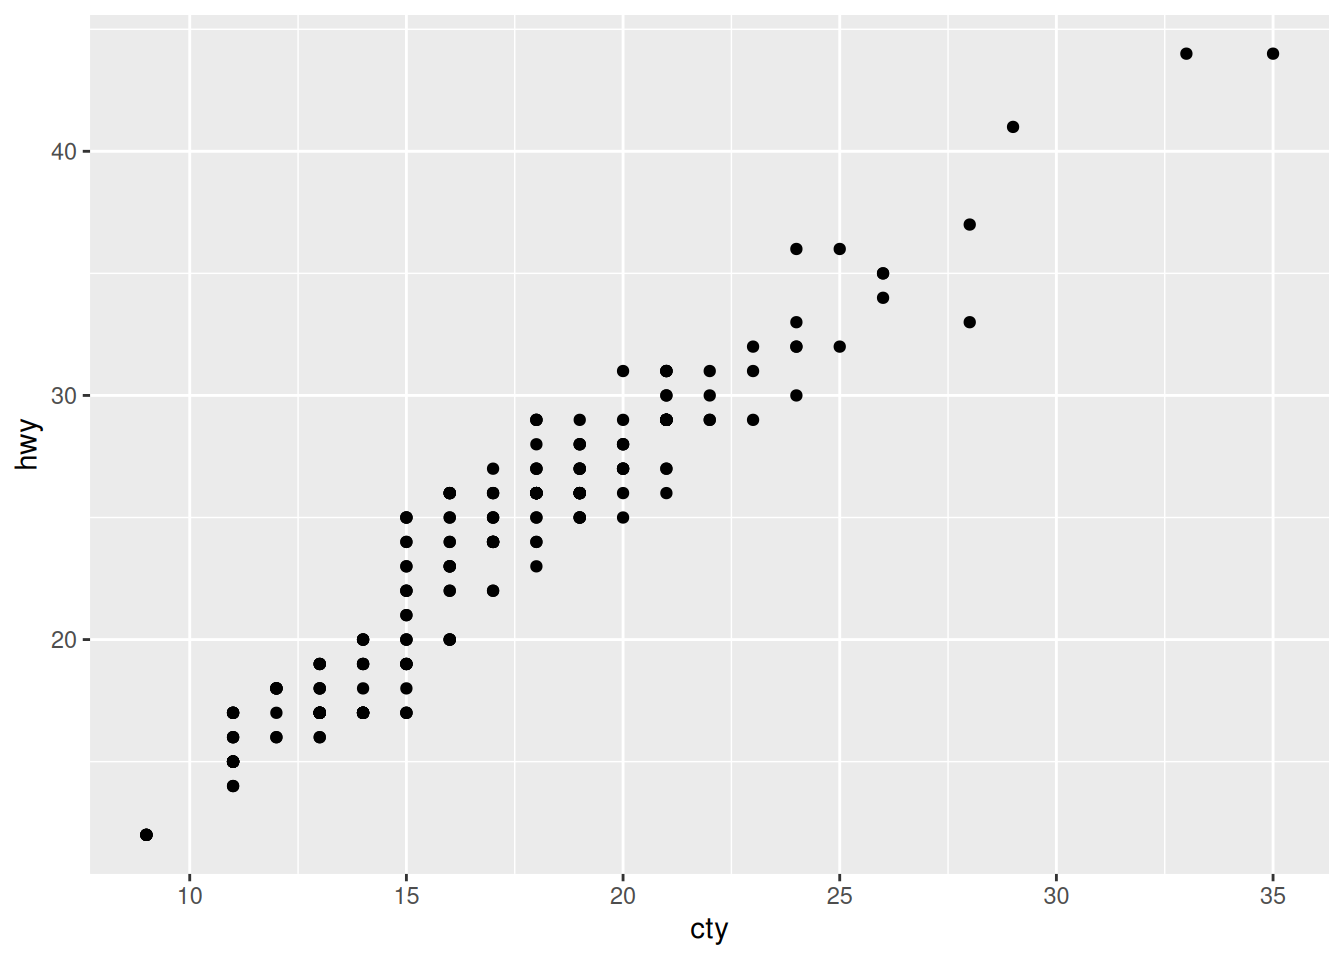
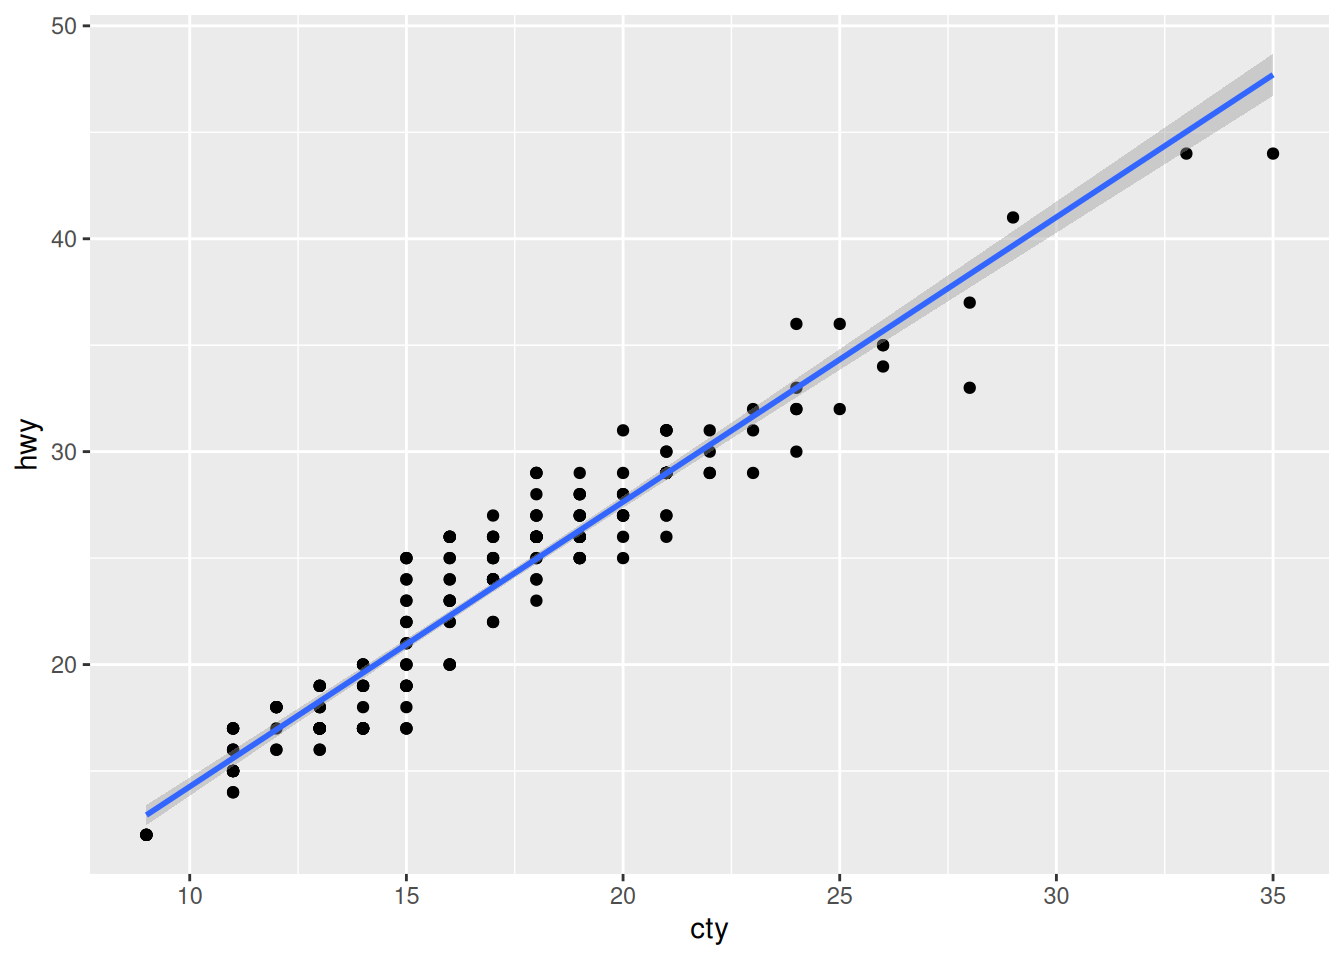
Charts for presentation

diff --git a/docs/ResearchProject.html b/docs/ResearchProject.html
@@ -7,9 +7,9 @@
 <meta name="viewport" content="width=device-width, initial-scale=1.0, user-scalable=yes">
 
 <meta name="author" content="Diego Arias">
-<meta name="dcterms.date" content="2026-08-19">
+<meta name="dcterms.date" content="2026-08-20">
 
-<title>Some ggplot – quartoCourseBlog</title>
+<title>Does remote work positivley impact workers in Europe? – quartoCourseBlog</title>
 <style>
 code{white-space: pre-wrap;}
 span.smallcaps{font-variant: small-caps;}
@@ -60,24 +60,24 @@ pre > code.sourceCode > span > a:first-child::before { text-decoration: underlin
 </style>
 
 
-<script src="../../site_libs/quarto-nav/quarto-nav.js"></script>
-<script src="../../site_libs/quarto-nav/headroom.min.js"></script>
-<script src="../../site_libs/clipboard/clipboard.min.js"></script>
-<script src="../../site_libs/quarto-search/autocomplete.umd.js"></script>
-<script src="../../site_libs/quarto-search/fuse.min.js"></script>
-<script src="../../site_libs/quarto-search/quarto-search.js"></script>
-<meta name="quarto:offset" content="../../">
-<script src="../../site_libs/quarto-html/quarto.js" type="module"></script>
-<script src="../../site_libs/quarto-html/tabsets/tabsets.js" type="module"></script>
-<script src="../../site_libs/quarto-html/axe/axe-check.js" type="module"></script>
-<script src="../../site_libs/quarto-html/popper.min.js"></script>
-<script src="../../site_libs/quarto-html/tippy.umd.min.js"></script>
-<script src="../../site_libs/quarto-html/anchor.min.js"></script>
-<link href="../../site_libs/quarto-html/tippy.css" rel="stylesheet">
-<link href="../../site_libs/quarto-html/quarto-syntax-highlighting-dark-4d9afe2b8d18ee9fa5d0d57b5ed4214d.css" rel="stylesheet" id="quarto-text-highlighting-styles">
-<script src="../../site_libs/bootstrap/bootstrap.min.js"></script>
-<link href="../../site_libs/bootstrap/bootstrap-icons.css" rel="stylesheet">
-<link href="../../site_libs/bootstrap/bootstrap-31d03babb270707bb7bb0598064d35a8.min.css" rel="stylesheet" append-hash="true" id="quarto-bootstrap" data-mode="dark">
+<script src="site_libs/quarto-nav/quarto-nav.js"></script>
+<script src="site_libs/quarto-nav/headroom.min.js"></script>
+<script src="site_libs/clipboard/clipboard.min.js"></script>
+<script src="site_libs/quarto-search/autocomplete.umd.js"></script>
+<script src="site_libs/quarto-search/fuse.min.js"></script>
+<script src="site_libs/quarto-search/quarto-search.js"></script>
+<meta name="quarto:offset" content="./">
+<script src="site_libs/quarto-html/quarto.js" type="module"></script>
+<script src="site_libs/quarto-html/tabsets/tabsets.js" type="module"></script>
+<script src="site_libs/quarto-html/axe/axe-check.js" type="module"></script>
+<script src="site_libs/quarto-html/popper.min.js"></script>
+<script src="site_libs/quarto-html/tippy.umd.min.js"></script>
+<script src="site_libs/quarto-html/anchor.min.js"></script>
+<link href="site_libs/quarto-html/tippy.css" rel="stylesheet">
+<link href="site_libs/quarto-html/quarto-syntax-highlighting-dark-4d9afe2b8d18ee9fa5d0d57b5ed4214d.css" rel="stylesheet" id="quarto-text-highlighting-styles">
+<script src="site_libs/bootstrap/bootstrap.min.js"></script>
+<link href="site_libs/bootstrap/bootstrap-icons.css" rel="stylesheet">
+<link href="site_libs/bootstrap/bootstrap-31d03babb270707bb7bb0598064d35a8.min.css" rel="stylesheet" append-hash="true" id="quarto-bootstrap" data-mode="dark">
 <script id="quarto-search-options" type="application/json">{
   "location": "navbar",
   "copy-button": false,
@@ -107,17 +107,17 @@ pre > code.sourceCode > span > a:first-child::before { text-decoration: underlin
 }</script>
 
 
-<link rel="stylesheet" href="../../styles.css">
+<link rel="stylesheet" href="styles.css">
 </head>
 
 <body class="nav-fixed fullcontent quarto-light">
 
 <div id="quarto-search-results"></div>
-  <header id="quarto-header" class="headroom fixed-top quarto-banner">
+  <header id="quarto-header" class="headroom fixed-top">
     <nav class="navbar navbar-expand-lg " data-bs-theme="dark">
       <div class="navbar-container container-fluid">
       <div class="navbar-brand-container mx-auto">
-    <a class="navbar-brand" href="../../index.html">
+    <a class="navbar-brand" href="./index.html">
     <span class="navbar-title">quartoCourseBlog</span>
     </a>
   </div>
@@ -128,7 +128,7 @@ pre > code.sourceCode > span > a:first-child::before { text-decoration: underlin
           <div class="collapse navbar-collapse" id="navbarCollapse">
             <ul class="navbar-nav navbar-nav-scroll ms-auto">
   <li class="nav-item">
-    <a class="nav-link" href="../../about.html"> 
+    <a class="nav-link" href="./about.html"> 
 <span class="menu-text">About</span></a>
   </li>  
   <li class="nav-item compact">
@@ -149,108 +149,113 @@ pre > code.sourceCode > span > a:first-child::before { text-decoration: underlin
     </nav>
 </header>
 <!-- content -->
-<header id="title-block-header" class="quarto-title-block default page-columns page-full">
-  <div class="quarto-title-banner page-columns page-full">
-    <div class="quarto-title column-body">
-      <h1 class="title">Some ggplot</h1>
-                                <div class="quarto-categories">
-                <div class="quarto-category">goals</div>
-                <div class="quarto-category">general</div>
-              </div>
-                  </div>
-  </div>
-    
-  
-  <div class="quarto-title-meta">
-
-      <div>
-      <div class="quarto-title-meta-heading">Author</div>
-      <div class="quarto-title-meta-contents">
-               <p>Diego Arias </p>
-            </div>
-    </div>
-      
-      <div>
-      <div class="quarto-title-meta-heading">Published</div>
-      <div class="quarto-title-meta-contents">
-        <p class="date">August 19, 2026</p>
-      </div>
-    </div>
-    
-      
-    </div>
-    
-  
-  </header><div id="quarto-content" class="quarto-container page-columns page-rows-contents page-layout-article page-navbar">
+<div id="quarto-content" class="quarto-container page-columns page-rows-contents page-layout-article page-navbar">
 <!-- sidebar -->
 <!-- margin-sidebar -->
     
 <!-- main -->
-<main class="content quarto-banner-title-block" id="quarto-document-content">
+<main class="content" id="quarto-document-content">
+
+<header id="title-block-header" class="quarto-title-block default">
+<div class="quarto-title">
+<h1 class="title">Does remote work positivley impact workers in Europe?</h1>
+  <div class="quarto-categories">
+    <div class="quarto-category">goals</div>
+    <div class="quarto-category">general</div>
+  </div>
+  </div>
 
 
 
+<div class="quarto-title-meta">
+
+    <div>
+    <div class="quarto-title-meta-heading">Author</div>
+    <div class="quarto-title-meta-contents">
+             <p>Diego Arias </p>
+          </div>
+  </div>
+    
+    <div>
+    <div class="quarto-title-meta-heading">Published</div>
+    <div class="quarto-title-meta-contents">
+      <p class="date">August 20, 2026</p>
+    </div>
+  </div>
+  
+    
+  </div>
+  
 
 
-<p>This week I took a GREAT short course on R and learned a bit of ggplot. Here are some examples.</p>
-<p>First, we learned about basic plots and mapping. Variables onto the x and y axis. Here is an example using the mpg dataset</p>
+</header>
+
+
+<p>Working remotely is a repetitively new concept with it growing in popularity in the 2020’s. Not much is known about what remote workers might have in common and how it affects their lives. A survey done on remote workers in Europe by Katharina Fellnhofer and Margarita Angelidou can help us find answers.</p>
 <div class="cell">
-<div class="code-copy-outer-scaffold"><div class="sourceCode cell-code" id="cb1"><pre class="sourceCode r code-with-copy"><code class="sourceCode r"><span id="cb1-1"><a href="#cb1-1" aria-hidden="true" tabindex="-1"></a><span class="fu">library</span>(ggplot2)</span>
-<span id="cb1-2"><a href="#cb1-2" aria-hidden="true" tabindex="-1"></a>?mpg</span>
-<span id="cb1-3"><a href="#cb1-3" aria-hidden="true" tabindex="-1"></a><span class="fu">ggplot</span>(</span>
-<span id="cb1-4"><a href="#cb1-4" aria-hidden="true" tabindex="-1"></a>  <span class="at">data =</span> mpg,</span>
-<span id="cb1-5"><a href="#cb1-5" aria-hidden="true" tabindex="-1"></a>  <span class="at">mapping =</span> <span class="fu">aes</span>(</span>
-<span id="cb1-6"><a href="#cb1-6" aria-hidden="true" tabindex="-1"></a>    <span class="at">x =</span> cty,</span>
-<span id="cb1-7"><a href="#cb1-7" aria-hidden="true" tabindex="-1"></a>    <span class="at">y =</span> hwy</span>
-<span id="cb1-8"><a href="#cb1-8" aria-hidden="true" tabindex="-1"></a>  )</span>
-<span id="cb1-9"><a href="#cb1-9" aria-hidden="true" tabindex="-1"></a>) <span class="sc">+</span> <span class="fu">geom_point</span>()<span class="sc">+</span></span>
-<span id="cb1-10"><a href="#cb1-10" aria-hidden="true" tabindex="-1"></a>  <span class="fu">geom_smooth</span>(<span class="at">method=</span><span class="st">"lm"</span>)</span></code></pre></div><button title="Copy to Clipboard" class="code-copy-button"><i class="bi"></i></button></div>
+<div class="code-copy-outer-scaffold"><div class="sourceCode cell-code" id="cb1"><pre class="sourceCode r code-with-copy"><code class="sourceCode r"><span id="cb1-1"><a href="#cb1-1" aria-hidden="true" tabindex="-1"></a><span class="fu">library</span>(tidyverse)</span></code></pre></div><button title="Copy to Clipboard" class="code-copy-button"><i class="bi"></i></button></div>
 <div class="cell-output cell-output-stderr">
-<pre><code>`geom_smooth()` using formula = 'y ~ x'</code></pre>
+<pre><code>── Attaching core tidyverse packages ──────────────────────── tidyverse 2.0.0 ──
+✔ dplyr     1.2.1     ✔ readr     2.2.0
+✔ forcats   1.0.1     ✔ stringr   1.6.0
+✔ ggplot2   4.0.3     ✔ tibble    3.3.1
+✔ lubridate 1.9.5     ✔ tidyr     1.3.2
+✔ purrr     1.2.2     
+── Conflicts ────────────────────────────────────────── tidyverse_conflicts() ──
+✖ dplyr::filter() masks stats::filter()
+✖ dplyr::lag()    masks stats::lag()
+ℹ Use the conflicted package (&lt;http://conflicted.r-lib.org/&gt;) to force all conflicts to become errors</code></pre>
 </div>
+<div class="code-copy-outer-scaffold"><div class="sourceCode cell-code" id="cb3"><pre class="sourceCode r code-with-copy"><code class="sourceCode r"><span id="cb3-1"><a href="#cb3-1" aria-hidden="true" tabindex="-1"></a><span class="fu">library</span>(readxl)</span>
+<span id="cb3-2"><a href="#cb3-2" aria-hidden="true" tabindex="-1"></a><span class="fu">library</span>(ggplot2)</span>
+<span id="cb3-3"><a href="#cb3-3" aria-hidden="true" tabindex="-1"></a></span>
+<span id="cb3-4"><a href="#cb3-4" aria-hidden="true" tabindex="-1"></a>rmap <span class="ot">&lt;-</span> readxl<span class="sc">::</span><span class="fu">read_excel</span>(<span class="at">path =</span> <span class="st">"/cloud/project/RMAP_Data_Descriptor_Data.xlsx"</span>)</span></code></pre></div><button title="Copy to Clipboard" class="code-copy-button"><i class="bi"></i></button></div>
+<div class="cell-output cell-output-stderr">
+<pre><code>Warning: Expecting numeric in AG2582 / R2582C33: got '0,38'</code></pre>
+</div>
+<div class="cell-output cell-output-stderr">
+<pre><code>Warning: Expecting numeric in AG5773 / R5773C33: got '19,5'</code></pre>
+</div>
+<div class="code-copy-outer-scaffold"><div class="sourceCode cell-code" id="cb6"><pre class="sourceCode r code-with-copy"><code class="sourceCode r"><span id="cb6-1"><a href="#cb6-1" aria-hidden="true" tabindex="-1"></a>new_rmap <span class="ot">&lt;-</span> rmap <span class="sc">|&gt;</span></span>
+<span id="cb6-2"><a href="#cb6-2" aria-hidden="true" tabindex="-1"></a>  <span class="fu">rename</span>(<span class="at">age =</span> Please.share.the.following...Your.age.in.years..,</span>
+<span id="cb6-3"><a href="#cb6-3" aria-hidden="true" tabindex="-1"></a>         <span class="at">remote_hours =</span> On.average..what.amount.of.time.of.your.weekly.work.schedule.do.you.perform.remotely..in.the.office.......Remotely...Hours.,</span>
+<span id="cb6-4"><a href="#cb6-4" aria-hidden="true" tabindex="-1"></a>         <span class="at">office_hours =</span> On.average..what.amount.of.time.of.your.weekly.work.schedule.do.you.perform.remotely..in.the.office.......In.the.Office..Hours.,</span>
+<span id="cb6-5"><a href="#cb6-5" aria-hidden="true" tabindex="-1"></a>         <span class="at">education =</span> Please.share.the.following...Total.years.of.full.time.education..from.primary.school.to.higher.education...,</span>
+<span id="cb6-6"><a href="#cb6-6" aria-hidden="true" tabindex="-1"></a>         <span class="at">experience =</span> Please.share.the.following...Total.years.of.professional.working.life..count.part.time.work.as.a.fraction..e.g...<span class="dv">0</span>.<span class="fl">5.</span>for.half.time.work...,</span>
+<span id="cb6-7"><a href="#cb6-7" aria-hidden="true" tabindex="-1"></a>         <span class="at">gender =</span> What.is.your.gender.,</span>
+<span id="cb6-8"><a href="#cb6-8" aria-hidden="true" tabindex="-1"></a>         <span class="at">industry =</span> Please.indicate.the.industry.sector.you.work.in.,</span>
+<span id="cb6-9"><a href="#cb6-9" aria-hidden="true" tabindex="-1"></a>         <span class="at">positive_score =</span> Please.rate.the.following.statements.regarding.remote.work.on.a.scale.from..<span class="dv">1</span>..strongly.disagree.to..<span class="dv">7</span>..strongly.agree.......Remote.work.positively.impacts.my.personal.life..,</span>
+<span id="cb6-10"><a href="#cb6-10" aria-hidden="true" tabindex="-1"></a>         <span class="at">negative_score =</span> Please.rate.the.following.statements.regarding.remote.work.on.a.scale.from..<span class="dv">1</span>..strongly.disagree.to..<span class="dv">7</span>..strongly.agree.......Remote.work.negatively.impacts.my.career.advancement..promotion..recognition..skill.development...,</span>
+<span id="cb6-11"><a href="#cb6-11" aria-hidden="true" tabindex="-1"></a>         <span class="at">work_life_bal =</span> Please.rate.the.following.statements.regarding.remote.work.on.a.scale.from..<span class="dv">1</span>..strongly.disagree.to..<span class="dv">7</span>..strongly.agree.......I.find.it.difficult.to.maintain.a.healthy.work.life.balance.while.working.remotely..</span>
+<span id="cb6-12"><a href="#cb6-12" aria-hidden="true" tabindex="-1"></a>         )</span>
+<span id="cb6-13"><a href="#cb6-13" aria-hidden="true" tabindex="-1"></a>rmap <span class="ot">&lt;-</span> <span class="cn">NULL</span></span>
+<span id="cb6-14"><a href="#cb6-14" aria-hidden="true" tabindex="-1"></a></span>
+<span id="cb6-15"><a href="#cb6-15" aria-hidden="true" tabindex="-1"></a>new_rmap<span class="sc">$</span>experience <span class="ot">&lt;-</span> <span class="fu">as.numeric</span>(<span class="fu">gsub</span>(<span class="st">","</span>, <span class="st">"."</span>, new_rmap<span class="sc">$</span>experience))</span>
+<span id="cb6-16"><a href="#cb6-16" aria-hidden="true" tabindex="-1"></a>new_rmap<span class="sc">$</span>education <span class="ot">&lt;-</span> <span class="fu">as.numeric</span>(<span class="fu">gsub</span>(<span class="st">","</span>, <span class="st">"."</span>, new_rmap<span class="sc">$</span>education))</span>
+<span id="cb6-17"><a href="#cb6-17" aria-hidden="true" tabindex="-1"></a></span>
+<span id="cb6-18"><a href="#cb6-18" aria-hidden="true" tabindex="-1"></a></span>
+<span id="cb6-19"><a href="#cb6-19" aria-hidden="true" tabindex="-1"></a>new_rmap <span class="ot">&lt;-</span> new_rmap <span class="sc">|&gt;</span></span>
+<span id="cb6-20"><a href="#cb6-20" aria-hidden="true" tabindex="-1"></a>  <span class="fu">filter</span>(age <span class="sc">&gt;</span> <span class="dv">18</span> <span class="sc">&amp;</span> age <span class="sc">&lt;</span> <span class="dv">100</span> <span class="sc">&amp;</span> age <span class="sc">&gt;</span> experience <span class="sc">&amp;</span> remote_hours <span class="sc">&gt;=</span> <span class="dv">1</span> <span class="sc">&amp;</span> experience <span class="sc">&gt;</span> <span class="dv">1</span> <span class="sc">&amp;</span> age <span class="sc">&gt;</span> education)</span>
+<span id="cb6-21"><a href="#cb6-21" aria-hidden="true" tabindex="-1"></a></span>
+<span id="cb6-22"><a href="#cb6-22" aria-hidden="true" tabindex="-1"></a></span>
+<span id="cb6-23"><a href="#cb6-23" aria-hidden="true" tabindex="-1"></a></span>
+<span id="cb6-24"><a href="#cb6-24" aria-hidden="true" tabindex="-1"></a><span class="fu">ggplot</span>(</span>
+<span id="cb6-25"><a href="#cb6-25" aria-hidden="true" tabindex="-1"></a>  <span class="at">data =</span> new_rmap,</span>
+<span id="cb6-26"><a href="#cb6-26" aria-hidden="true" tabindex="-1"></a>  <span class="at">mapping =</span> <span class="fu">aes</span>(</span>
+<span id="cb6-27"><a href="#cb6-27" aria-hidden="true" tabindex="-1"></a>    <span class="at">x =</span> experience,</span>
+<span id="cb6-28"><a href="#cb6-28" aria-hidden="true" tabindex="-1"></a>    <span class="at">y =</span> age,</span>
+<span id="cb6-29"><a href="#cb6-29" aria-hidden="true" tabindex="-1"></a>    <span class="at">color =</span> gender</span>
+<span id="cb6-30"><a href="#cb6-30" aria-hidden="true" tabindex="-1"></a>  )</span>
+<span id="cb6-31"><a href="#cb6-31" aria-hidden="true" tabindex="-1"></a>) <span class="sc">+</span></span>
+<span id="cb6-32"><a href="#cb6-32" aria-hidden="true" tabindex="-1"></a>  <span class="fu">geom_point</span>(<span class="at">position =</span> <span class="st">"jitter"</span>)</span></code></pre></div><button title="Copy to Clipboard" class="code-copy-button"><i class="bi"></i></button></div>
 <div class="cell-output-display">
 <div>
 <figure class="figure">
-<p><img src="index_files/figure-html/unnamed-chunk-1-1.png" class="img-fluid figure-img" width="672"></p>
+<p><img src="ResearchProject_files/figure-html/unnamed-chunk-1-1.png" class="img-fluid figure-img" width="672"></p>
 </figure>
 </div>
 </div>
 </div>
-<div class="cell">
-<div class="code-copy-outer-scaffold"><div class="sourceCode cell-code" id="cb3"><pre class="sourceCode r code-with-copy"><code class="sourceCode r"><span id="cb3-1"><a href="#cb3-1" aria-hidden="true" tabindex="-1"></a><span class="fu">ggplot</span>(</span>
-<span id="cb3-2"><a href="#cb3-2" aria-hidden="true" tabindex="-1"></a>  <span class="at">data =</span> mpg,</span>
-<span id="cb3-3"><a href="#cb3-3" aria-hidden="true" tabindex="-1"></a>  <span class="at">mapping =</span> <span class="fu">aes</span>(</span>
-<span id="cb3-4"><a href="#cb3-4" aria-hidden="true" tabindex="-1"></a>    <span class="at">x =</span> cty,</span>
-<span id="cb3-5"><a href="#cb3-5" aria-hidden="true" tabindex="-1"></a>    <span class="at">y =</span> hwy,</span>
-<span id="cb3-6"><a href="#cb3-6" aria-hidden="true" tabindex="-1"></a>    <span class="at">color =</span> year,</span>
-<span id="cb3-7"><a href="#cb3-7" aria-hidden="true" tabindex="-1"></a>    <span class="at">shape =</span> class,</span>
-<span id="cb3-8"><a href="#cb3-8" aria-hidden="true" tabindex="-1"></a>  )</span>
-<span id="cb3-9"><a href="#cb3-9" aria-hidden="true" tabindex="-1"></a>) <span class="sc">+</span> <span class="fu">geom_point</span>()<span class="sc">+</span></span>
-<span id="cb3-10"><a href="#cb3-10" aria-hidden="true" tabindex="-1"></a>  <span class="fu">labs</span>(</span>
-<span id="cb3-11"><a href="#cb3-11" aria-hidden="true" tabindex="-1"></a>    <span class="at">title =</span> <span class="st">"MPG on city vs highway"</span>,</span>
-<span id="cb3-12"><a href="#cb3-12" aria-hidden="true" tabindex="-1"></a>    <span class="at">x =</span> <span class="st">"MPG in the city roads"</span>,</span>
-<span id="cb3-13"><a href="#cb3-13" aria-hidden="true" tabindex="-1"></a>    <span class="at">y =</span> <span class="st">"MPG on the highway"</span>,</span>
-<span id="cb3-14"><a href="#cb3-14" aria-hidden="true" tabindex="-1"></a>    <span class="at">caption =</span> <span class="st">"This is data from the MPG database"</span></span>
-<span id="cb3-15"><a href="#cb3-15" aria-hidden="true" tabindex="-1"></a>  )</span></code></pre></div><button title="Copy to Clipboard" class="code-copy-button"><i class="bi"></i></button></div>
-<div class="cell-output cell-output-stderr">
-<pre><code>Warning: The shape palette can deal with a maximum of 6 discrete values because more
-than 6 becomes difficult to discriminate
-ℹ you have requested 7 values. Consider specifying shapes manually if you need
-  that many of them.</code></pre>
-</div>
-<div class="cell-output cell-output-stderr">
-<pre><code>Warning: Removed 62 rows containing missing values or values outside the scale range
-(`geom_point()`).</code></pre>
-</div>
-<div class="cell-output-display">
-<div>
-<figure class="figure">
-<p><img src="index_files/figure-html/unnamed-chunk-2-1.png" class="img-fluid figure-img" width="672"></p>
-</figure>
-</div>
-</div>
-</div>
-<p>This is great, but one thing that we learned about was the importance of using labels using the labs function. so here’s the graph again with better labeling to make the graph stand out</p>
 
 
 

diff --git a/docs/index.html b/docs/index.html
@@ -209,7 +209,7 @@ window.Quarto = {
 
 <div class="quarto-listing quarto-listing-container-default" id="listing-listing">
 <div class="list quarto-listing-default">
-<div class="quarto-post image-right" data-index="0" data-categories="Z29hbHMlMkNnZW5lcmFs" data-listing-date-sort="1787097600000" data-listing-file-modified-sort="1787165985340" data-listing-date-modified-sort="NaN" data-listing-reading-time-sort="1" data-listing-word-count-sort="189">
+<div class="quarto-post image-right" data-index="0" data-categories="Z29hbHMlMkNnZW5lcmFs" data-listing-date-sort="1787097600000" data-listing-file-modified-sort="1787166079230" data-listing-date-modified-sort="NaN" data-listing-reading-time-sort="1" data-listing-word-count-sort="182">
 <div class="thumbnail"><a href="./posts/Cool_ggplot_work/index.html" class="no-external">
 
 <p class="card-img-top"><img src="posts/Cool_ggplot_work/index_files/figure-html/unnamed-chunk-1-1.png"  class="thumbnail-image card-img"/></p>
